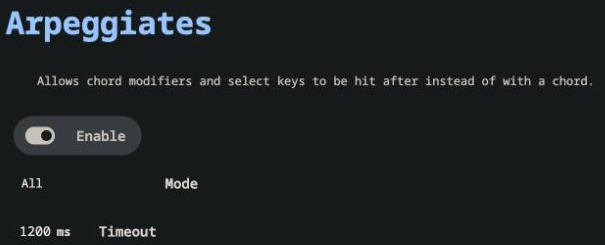
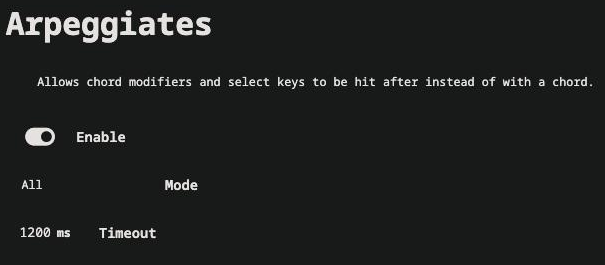
Clean up orphaned Device Manager screenshots, fix Active Mouse -> Caffeine
Delete 11 Manager*.png files no longer referenced from any .rst, and
rename the "Active Mouse" dropdown to "Caffeine" to match the current
Device Manager UI label. Reconcile TODO.md's item 15 notes accordingly,
including flagging that the Arpeggiates/Mouse/RGB settings screenshots
were redundantly re-shot on top of an earlier same-day pass.

diff --git a/TODO.md b/TODO.md
@@ -839,14 +839,18 @@ instead.
 
 **File:** `docs/Device Manager.rst`, `docs/assets/images/Manager*.png`
 
-**Done so far:** reshot on a connected CharaChorder Lite (CCOS 3.0.0, Device
+**Done:** reshot on a connected CharaChorder Lite (CCOS 3.0.0, Device
 Manager v2.8.0) and cropped to match the existing "one box per screenshot"
-style: `ManagerSettingsArpeggiates.png`, `ManagerSettingsMouse.png`,
-`ManagerSettingsChording.png`, `ManagerSettingsAutoCorrect.png`,
-`ManagerSettingsRGB.png`. Dropped the `:width: 1200` overrides on the three
-that had them, since the new crops are already close to their natural size and
-upscaling made them blurry. `sphinx-build -a` gives zero warnings and the
-rendered page was checked visually.
+style, across two reshoot passes the same day: `ManagerSettingsArpeggiates.png`,
+`ManagerSettingsMouse.png`, `ManagerSettingsChording.png`,
+`ManagerSettingsAutoCorrect.png`, `ManagerSettingsRGB.png`. Dropped the
+`:width: 1200` overrides on the three that had them, since the new crops are
+already close to their natural size and upscaling made them blurry.
+`sphinx-build -a` gives zero warnings and the rendered page was checked
+visually. (Note: the second pass re-shot `ManagerSettingsArpeggiates.png`,
+`ManagerSettingsMouse.png`, and `ManagerSettingsRGB.png` a second time without
+realizing the first pass had already covered them -- redundant effort, but the
+new crops are still valid, so they were kept as-is rather than reverted.)
 
 Confirmed while reshooting:
 
@@ -855,9 +859,13 @@ Confirmed while reshooting:
   `Aggressive reporting` and `Aggressive reporting throttle`, `Hid resend
   throttle` settings not documented anywhere yet -- item 17 territory).
   **Scroll Throttle** is present as the page already says.
-- The Mouse box's `Active Mouse` toggle is labelled **`Caffeine`** in the live
-  UI. The `.. dropdown:: Active Mouse` text describing it is still accurate,
-  but the heading no longer matches what a reader sees in the screenshot.
+- **Done:** the Mouse box's `Active Mouse` toggle is labelled **`Caffeine`**
+  in the live UI. Renamed the `.. dropdown:: Active Mouse` heading to
+  `Caffeine` to match; the body text needed no changes. Confirmed no
+  `:ref:` in the repo targets the old heading, and `GenerativeTextMenu.rst`'s
+  separate "Active Mode" heading (the same setting reached from the device's
+  own on-device menu, per item 13) was deliberately left alone since it's a
+  different UI surface.
 - The Chording box picked up three fields since the last screenshot that
   aren't documented in any dropdown yet: `Minimum chord keys`, `Tap dance
   tolerance`, `Concatenation style` (`Compound timeout` and `Detection method`
@@ -951,53 +959,39 @@ Arpeggiates, Leds, Misc, Usb, Backup.
 
 Every screenshot that existed at the start of this item has now either been
 reshot, or deliberately deleted/skipped with a documented reason. What's left
-open is scoped separately below (the `A4`/`A B C` Layout mystery, the missing
-Usb screenshot, and the orphaned-file cleanup).
+open is scoped separately below (the `A4`/`A B C` Layout mystery and the
+missing Usb screenshot).
 
 Also newly discovered, not previously in this doc at all: **Gaming** (`Layer
 warp`) and **Fuzzy modifiers** (`Enable`, `Press threshold`, `Release
 threshold`, `Release guard threshold`) are entire settings categories with no
 documentation anywhere -- folds into item 17's scope.
 
-The page shows 15 screenshots. All of them predate CCOS 3.0.0 (released
-2026-01-28), and two thirds predate the Master Forge:
+The page shows 15 screenshots. As of 2026-08-29 all of them are current except
+one gap, the missing `USB` box screenshot (see "What it needs" below):
 
 | Last changed | Screenshots |
 |---|---|
-| 2024-01/02 | `ManagerSELECTDEVICE`, `ManagerSettingsArpeggiates`, `ManagerSettingsMouse`, `ManagerSettingsRGB` |
 | 2025-02-25 | `ChordManager` |
 | 2025-08-26 | `ManagerSettingsAutoCorrect`, `ManagerSettingsChording` |
-| 2026-08-29 | `ManagerColorScheme`, `ManagerLayoutSelector`, `ManagerSaveButton`, `ManagerUndoRedo` |
-
-Mismatches already known, without opening the app:
-
-- `ManagerSettingsMouse.png` shows a Mouse box containing **Poll Rate**, which
-  2.2.0 removed, and cannot show **Scroll Throttle**, which the page now
-  documents (item 2).
-- `ManagerSettingsRGB.png` predates the Master Forge, so it shows the box as it
-  looked when RGB really was Lite-only — the claim item 3 had to delete.
-- The `USB` section added for item 2 has **no screenshot at all**.
-- `ManagerSettingsSpurring.png` is orphaned: item 3 deleted the section that
-  used it, because the Device Manager has no spurring box any more.
+| 2026-08-29 | everything else: `ManagerSELECTDEVICE` (unchanged, see below), `ManagerSettingsArpeggiates`, `ManagerSettingsMouse`, `ManagerSettingsRGB`, `ManagerColorScheme`, `ManagerLayoutSelector`, `ManagerSaveButton`, `ManagerUndoRedo` |
 
 **Also worth folding in while reshooting:**
 
 - Item 12b's case bug was on this page and is now fixed by correcting the
   reference to `ManagerSettingsAutoCorrect.png`. A reshoot renames the file
   anyway, which is the moment to settle on one spelling.
-- Eleven `Manager*.png` files in `assets/images` are referenced by no `.rst` at
-  all: `ManagerBootloaderButton-Lite`, `ManagerCONNECT`,
+- **Done:** eleven `Manager*.png` files in `assets/images` were referenced by
+  no `.rst` at all -- `ManagerBootloaderButton-Lite`, `ManagerCONNECT`,
   `ManagerDeviceButton-Lite`, `ManagerFirstTimeConnect`, `ManagerLinks`,
   `ManagerPowerButton-Lite`, `ManagerREDCONNECTBUTTON`, `ManagerSettingsResets`,
-  `ManagerSettingsSpurring`, `ManagerTerminal`, `ManagerVersion`. Some are
-  probably left from sections that were rewritten; worth deciding which to
-  delete once the new set exists.
+  `ManagerSettingsSpurring`, `ManagerTerminal`, `ManagerVersion`. Reconfirmed
+  with `grep -rl` across every `.rst` file and deleted.
 
-**What it needs (for the three settings-box screenshots still stale --
-`ManagerSettingsArpeggiates`, `ManagerSettingsMouse`, `ManagerSettingsRGB` --
-plus the missing `USB` box screenshot):** a device connected to the current
-Device Manager, cropped to its natural pixel size with no `:width:` override,
-matching the approach settled on for this segment's reshoots.
+**What it needs (for the missing `USB` box screenshot):** a device connected
+to the current Device Manager, cropped to its natural pixel size with no
+`:width:` override, matching the approach settled on for this item's other
+reshoots.
 
 ---
 
@@ -1090,7 +1084,7 @@ reporting`, `chording/concatenation style` ("Prepend concatenation style") and
 Serial API rows already show.
 
 Two settings that look missing are not: `mouse/caffeine` is documented as the
-Device Manager's `Active Mouse`, and `keyboard/command control swap` as
+Device Manager's `Caffeine`, and `keyboard/command control swap` as
 `GUI-CTRL Soft Swap` on the GTM page. Neither name matches the API.
 
 `mouse/enable` is the one entry in this table confirmed by a device rather

diff --git a/docs/Device Manager.rst b/docs/Device Manager.rst
@@ -307,9 +307,9 @@ In this box, you can adjust settings relating to :doc:`CCOS'<CCOS>` mouse abilit
 
 	.. ccos-setting:: mouse/scroll throttle
 
-.. dropdown:: Active Mouse
+.. dropdown:: Caffeine
 
-	Active mode nudges your mouse cursor one pixel every minute or so (not a specific timing). This setting can be used to keep your computer from going to sleep. You might turn this setting off if you notice desktop apps are preventing you from getting mobile notifications (for example on Discord or Microsoft Teams).
+	Caffeine nudges your mouse cursor one pixel every minute or so (not a specific timing). This setting can be used to keep your computer from going to sleep. You might turn this setting off if you notice desktop apps are preventing you from getting mobile notifications (for example on Discord or Microsoft Teams).
 
 Chording
 --------
